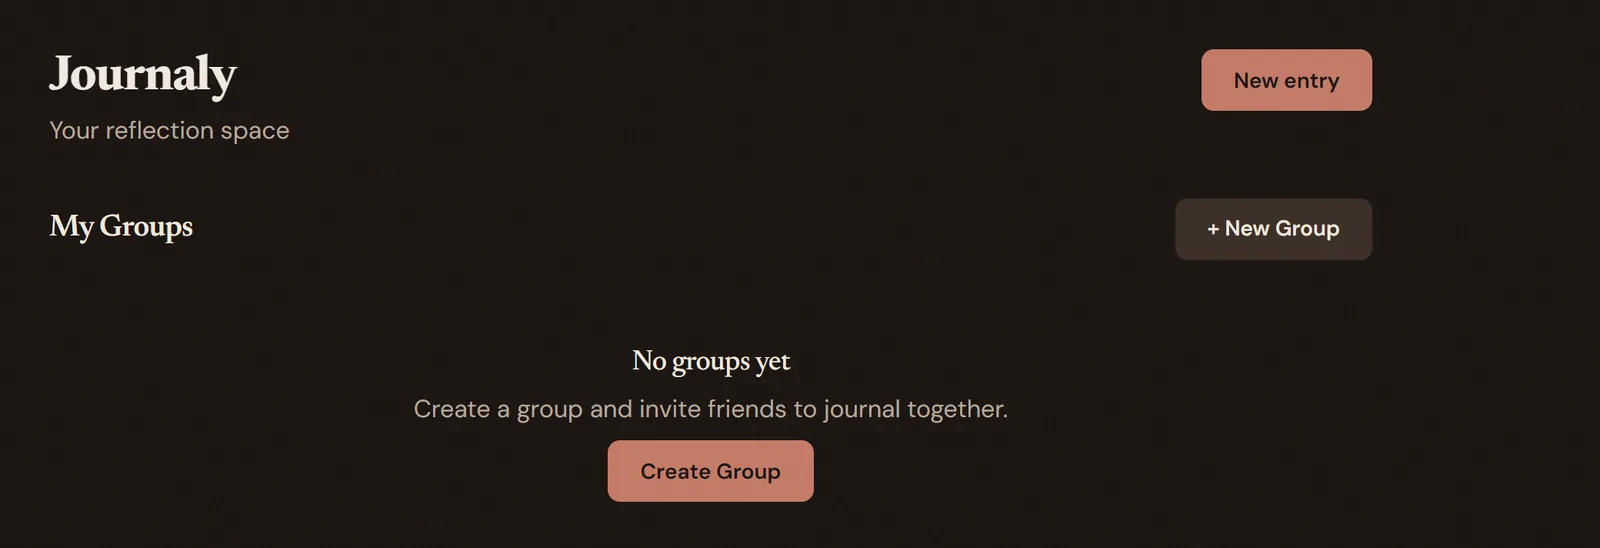
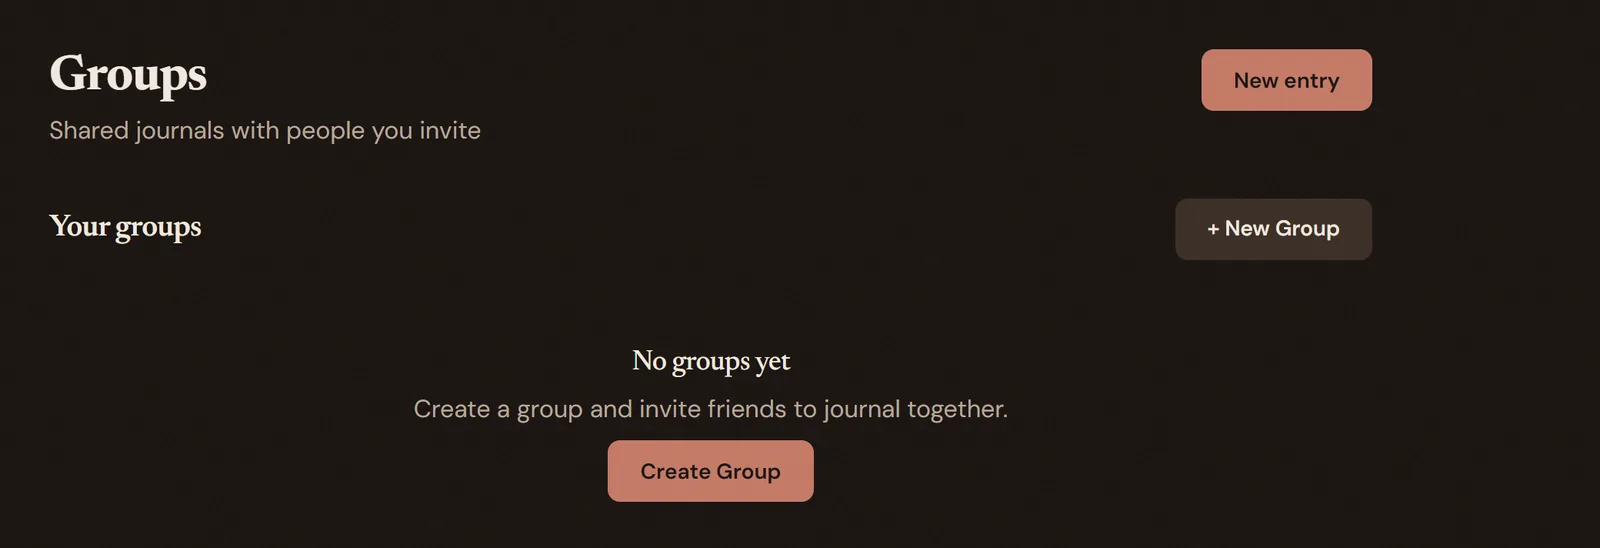
docs(guide): Journaly guide for invite links, tags, photos and delete
Describes copyable invite links (create, copy, 7-day expiry, new link,
turn off) and joining from a link, case-insensitive prefix tag filters,
photos on a new entry uploading at publish, Delete entry in the editor,
filing older entries into collections, and no writing on future days.
Drops the collections limitation tip. Re-shot new-entry and groups-empty.

Changed region(s): [[0.0312, 0.2172, 0.3125, 0.2792], [0.0312, 0.0931, 0.1562, 0.1861], [0.0312, 0.3723, 0.125, 0.4343]]

diff --git a/jiro-ui/src/app/features/guide/journaly/journaly-guide.ts b/jiro-ui/src/app/features/guide/journaly/journaly-guide.ts
@@ -18,12 +18,12 @@ import { GUIDE } from '../shared';
           <li>Write in the box below it. If you are stuck, use <strong>Today's prompt</strong>: select the question to start writing, the arrow for another question, or the cross to hide prompts for the rest of the day.</li>
           <li>Under <strong>Mood</strong>, pick the one that fits. Select it again to clear it.</li>
           <li>Under <strong>Tags</strong>, type a tag and press <kbd>Enter</kbd> or a comma. You can add up to 10.</li>
+          <li>Under <strong>Photos</strong>, select <strong>Add</strong> to attach up to three photos. They show as thumbnails and upload when you publish.</li>
           <li>Under <strong>Collections</strong>, select any collection the entry belongs in.</li>
           <li>Select <strong>Publish</strong>. You go back to Journaly and the entry is on this week's calendar.</li>
         </guide-steps>
-        <guide-shot guide="journaly" name="new-entry" [width]="1440" [height]="1872"
-          alt="A new entry titled Long walk home, with today's writing prompt above the text, Calm picked as the mood, a walks tag, the Images and Collections sections, and a Publish button." />
-        <guide-tip>Photos are added once the entry exists. See <a routerLink="/guide/journaly" fragment="add-photos">Add photos to an entry</a>.</guide-tip>
+        <guide-shot guide="journaly" name="new-entry" [width]="1440" [height]="1900"
+          alt="A new entry titled Long walk home, with today's writing prompt above the text, Calm picked as the mood, a walks tag, the Photos section with a note that photos upload when you publish, the Collections section, and a Publish button." />
       </guide-section>
 
       <guide-section id="write-for-an-earlier-day" title="Write for an earlier day"
@@ -32,19 +32,19 @@ import { GUIDE } from '../shared';
           <li>On <a routerLink="/journal">Journaly</a>, use the arrows beside the dates to find the week.</li>
           <li>Select the <strong>+</strong> under the day.</li>
           <li>Select <strong>Write now</strong>, or <strong>New Entry</strong> if the day already has entries.</li>
-          <li>The editor shows the date beside <strong>New entry</strong>. Write as usual and select <strong>Publish</strong>.</li>
+          <li>The editor shows the date beside <strong>New entry</strong>, and the prompt is a general <strong>Writing prompt</strong> rather than today's. Write as usual and select <strong>Publish</strong>.</li>
         </guide-steps>
-        <p>The entry counts for that day everywhere: the week view, the day view and your streak.</p>
+        <p>The entry counts for that day everywhere: the week view, the day view and your streak. Days still to come have nothing to write about yet, so their window offers no <strong>Write now</strong>.</p>
       </guide-section>
 
       <guide-section id="add-photos" title="Add photos to an entry"
-        lead="Each entry can hold up to three photos.">
+        lead="Each entry can hold up to three photos, on a new entry or an old one.">
         <guide-steps>
-          <li>Publish the entry first. On a new entry, <strong>Add</strong> asks you to save before adding images.</li>
-          <li>Open the entry again, for example from <a routerLink="/journal/entries">Entries</a>.</li>
-          <li>Under <strong>Images</strong>, select <strong>Add</strong> and choose a JPEG, PNG or WebP file of up to 10 MB. It uploads straight away.</li>
-          <li>To take a photo off, select the cross on its thumbnail. Select a thumbnail to see it full size.</li>
+          <li>In the editor, under <strong>Photos</strong>, select <strong>Add</strong> and choose a JPEG, PNG or WebP file of up to 10 MB.</li>
+          <li>On a new entry, the photo waits as a thumbnail and uploads when you select <strong>Publish</strong>. On an entry you are editing, it uploads straight away.</li>
+          <li>To take a photo off, select the cross on its thumbnail. Select an uploaded thumbnail to see it full size.</li>
         </guide-steps>
+        <p>If a photo cannot upload when you publish, the entry is still saved and stays open in the editor, so you can add the photo again.</p>
       </guide-section>
 
       <guide-section id="use-the-week-view" title="Use the week view"
@@ -81,7 +81,7 @@ import { GUIDE } from '../shared';
           <li>Open <a routerLink="/journal/entries">Entries</a>. Entries are grouped by month, 20 to a page.</li>
           <li>Type in <strong>Search entries...</strong> to find words in a title or the entry itself.</li>
           <li>Choose a mood from <strong>All moods</strong> to see only entries with that mood.</li>
-          <li>Type a tag in <strong>Filter by tag...</strong>. It must match the whole tag exactly, including capitals.</li>
+          <li>Type a tag in <strong>Filter by tag...</strong>. Capitals do not matter, and the start of a tag is enough: <strong>train</strong> finds entries tagged Training.</li>
           <li>Use <strong>Prev</strong>, <strong>Next</strong> or a page number at the bottom to move through the pages.</li>
           <li>Select <strong>Clear filters</strong> to see everything again, or select an entry to open it.</li>
         </guide-steps>
@@ -95,15 +95,15 @@ import { GUIDE } from '../shared';
         <h3>Edit</h3>
         <guide-steps>
           <li>Open the entry: select it on <a routerLink="/journal/entries">Entries</a> or in the list on the Journaly tab, or select <strong>Edit Entry</strong> in the day window.</li>
-          <li>Change the title, text, mood, tags or photos.</li>
+          <li>Change the title, text, mood, tags, photos or collections.</li>
           <li>Select <strong>Save</strong>.</li>
         </guide-steps>
         <h3>Delete</h3>
         <guide-steps>
-          <li>On the <a routerLink="/journal">Journaly</a> tab, select the bin on the entry in the list below the calendar. You can also select <strong>Delete</strong> in the day window.</li>
+          <li>Open the entry in the editor and select <strong>Delete entry</strong> at the bottom. You can also select the bin on the entry in the list below the calendar on the <a routerLink="/journal">Journaly</a> tab, or <strong>Delete</strong> in the day window.</li>
           <li>Select <strong>Delete entry</strong> to confirm.</li>
         </guide-steps>
-        <p>Deleting removes the entry and its photos permanently. The editor and the Entries tab have no delete button, so find the entry's week on the Journaly tab.</p>
+        <p>Deleting removes the entry and its photos permanently.</p>
       </guide-section>
 
       <guide-section id="keep-entries-in-a-collection" title="Keep entries in a collection"
@@ -111,13 +111,13 @@ import { GUIDE } from '../shared';
         <guide-steps>
           <li>Open <a routerLink="/journal/collections">Collections</a> and select <strong>+ New</strong>.</li>
           <li>Enter a <strong>Name</strong> and, if you like, a <strong>Description</strong>, then select <strong>Create</strong>.</li>
-          <li>When you write a new entry, select the collection under <strong>Collections</strong> before you select <strong>Publish</strong>.</li>
+          <li>When you write an entry, select the collection under <strong>Collections</strong> before you select <strong>Publish</strong>. From an empty collection, <strong>Write entry</strong> starts one with the collection already picked.</li>
+          <li>To file an older entry, open it, select the collection under <strong>Collections</strong> and select <strong>Save</strong>. Select it again to take the entry out.</li>
           <li>Select a collection on the Collections tab to read its entries.</li>
         </guide-steps>
         <guide-shot guide="journaly" name="new-collection" [width]="1040" [height]="590"
           alt="The New Collection window with the name Trips, the description Places I went and what I remember, and Cancel and Create buttons." />
-        <p>Inside a collection, select <strong>Edit</strong> to rename it, change its description or <strong>Delete</strong> it. Deleting a collection keeps its entries in your journal. To add a cover, select the folder picture beside the name and choose a JPEG, PNG or WebP image of up to 5 MB.</p>
-        <guide-tip>An entry joins a collection when you publish it. Selecting a collection while editing an older entry does not add it.</guide-tip>
+        <p>Inside a collection, select the cross on an entry and confirm to take it out of the collection; the entry stays in your journal. Select <strong>Edit</strong> to rename the collection, change its description or <strong>Delete</strong> it. Deleting a collection keeps its entries in your journal. To add a cover, select the folder picture beside the name and choose a JPEG, PNG or WebP image of up to 5 MB.</p>
       </guide-section>
 
       <guide-section id="journal-with-other-people" title="Journal with other people"
@@ -128,23 +128,31 @@ import { GUIDE } from '../shared';
           <li>Enter a <strong>Group name</strong> and select <strong>Create</strong>. The group opens.</li>
         </guide-steps>
         <guide-shot guide="journaly" name="groups-empty" [width]="1600" [height]="548"
-          alt="The Groups tab with no groups yet, a + New Group button and a Create Group button." />
+          alt="The Groups page with no groups yet, a + New Group button and a Create Group button." />
         <guide-shot guide="journaly" name="new-group" [width]="1040" [height]="444"
           alt="The New Group window with the group name Book club, and Cancel and Create buttons." />
 
-        <h3>Invite someone</h3>
+        <h3>Invite with a link</h3>
         <guide-steps>
           <li>In the group, select <strong>Members</strong>. Only the person who made the group can invite.</li>
-          <li>Under <strong>Invite someone</strong>, enter the email address of their Jiro account and select <strong>Invite</strong>.</li>
-          <li>They get an email with an <strong>Accept Invite</strong> link. Until they use it, the members list shows <strong>Invite pending</strong>.</li>
+          <li>Under <strong>Invite link</strong>, select <strong>Create invite link</strong>, then <strong>Copy</strong>, and send the link however you like.</li>
+          <li>Anyone with a Jiro account who opens it while signed in can join. The link works for 7 days; the date it stops is shown under it.</li>
+        </guide-steps>
+        <p>Jiro keeps only a scrambled copy of the link, so it can show it just once. To share it again later, select <strong>Make a new link</strong>; the old one stops working. Select <strong>Turn off link</strong> to stop anyone new joining with it. People who already joined stay in the group.</p>
+
+        <h3>Invite by email</h3>
+        <guide-steps>
+          <li>In <strong>Members</strong>, under <strong>Invite by email</strong>, enter the email address of their Jiro account and select <strong>Invite</strong>.</li>
+          <li>They get an email with an <strong>Accept Invite</strong> link that only works for that address, for 7 days. Until they use it, the members list shows <strong>Invite pending</strong>.</li>
         </guide-steps>
 
         <h3>Join with an invite</h3>
         <guide-steps>
-          <li>Open the <strong>Accept Invite</strong> link in the email. It works for 7 days.</li>
-          <li>If asked, select <strong>Sign In</strong> and sign in with the email address the invite was sent to.</li>
-          <li>When you see <strong>You're in!</strong>, select <strong>Open Group</strong>.</li>
+          <li>Open the invite link. If you are signed out, select <strong>Sign in</strong>, or <strong>Create one free</strong> for a new account. Either way you come back to the invite.</li>
+          <li>Check the group name and select <strong>Join group</strong>.</li>
+          <li>When you see <strong>You're in!</strong>, select <strong>Open group</strong>.</li>
         </guide-steps>
+        <guide-tip>A new account needs its email verified before it can join, so open the link Jiro emails you first. The demo can open an invite but not join, since it is look-only.</guide-tip>
 
         <h3>Post to the group</h3>
         <guide-steps>
